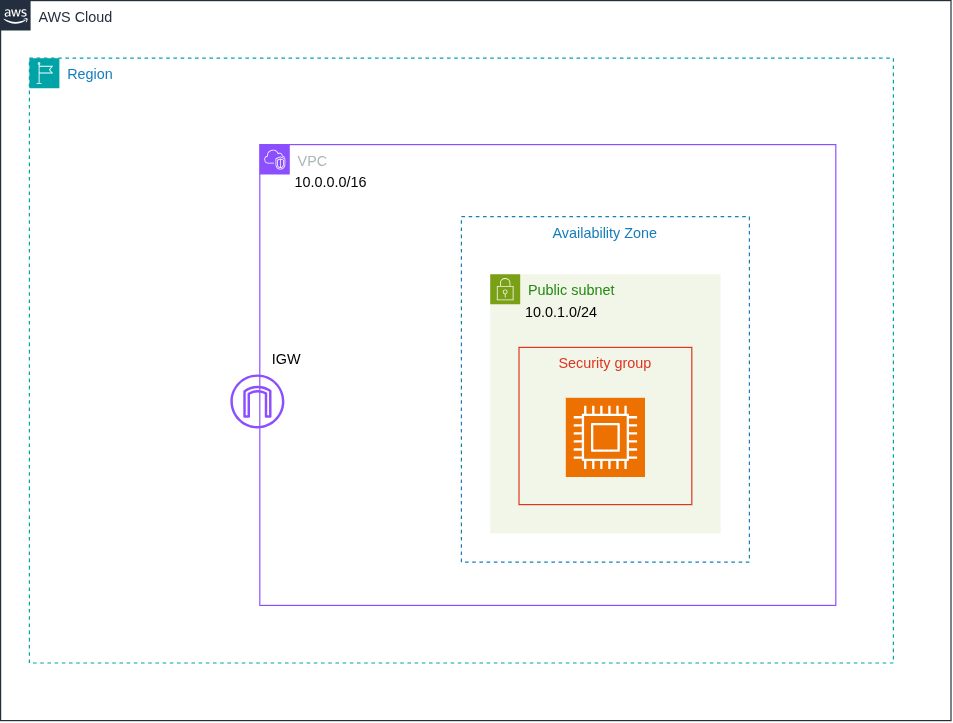
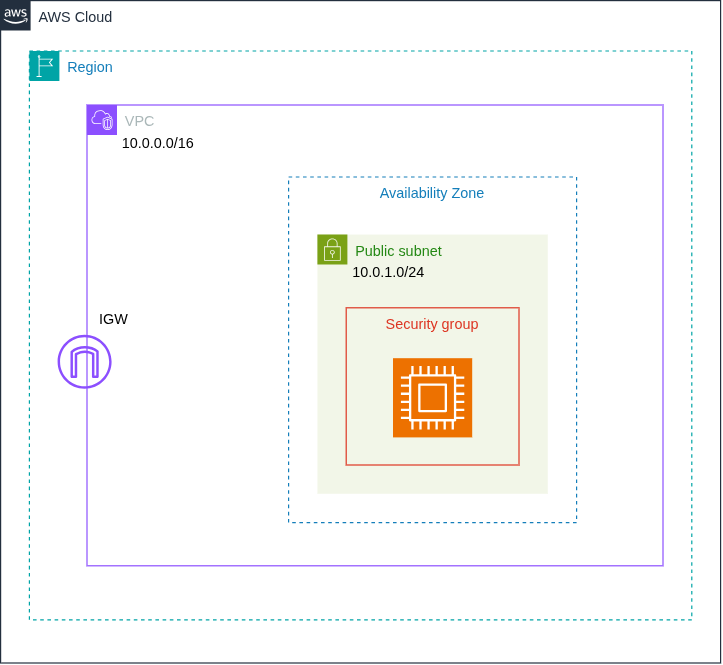
update README

diff --git a/README.md b/README.md
@@ -2,21 +2,11 @@
 
 Terraform infrastructure for deploying a self-hosted [Linkding](https://github.com/sissbruecker/linkding) bookmark manager on AWS. The project provisions an EC2 instance and its network resources, publishes the application through Route 53, and bootstraps a Docker Compose stack with Nginx and Let's Encrypt TLS.
 
-![AWS infrastructure diagram](single-vpc-diagram.png)
-
 ## Architecture
 
-```mermaid
-flowchart TD
-    User[Browser] --> DNS[Route 53 hosted zone]
-    DNS --> EIP[Elastic IP]
-    EIP --> SG[Security group]
-    SG --> EC2[Ubuntu EC2 instance]
-    EC2 --> Nginx[Nginx container]
-    Nginx --> Linkding[Linkding container]
-    Linkding --> Data[Persistent data on EC2 root volume]
-    Certbot[Certbot on EC2] --> Nginx
-```
+![Single-VPC AWS architecture showing the internet gateway, public subnet, security group, and EC2 instance](single-vpc-diagram.png)
+
+The diagram reflects the network provisioned by this project: a `10.0.0.0/16` VPC containing a `10.0.1.0/24` public subnet in one availability zone. An internet gateway provides public connectivity, while the EC2 instance is placed inside a security group in the public subnet.
 
 Terraform creates:
 
